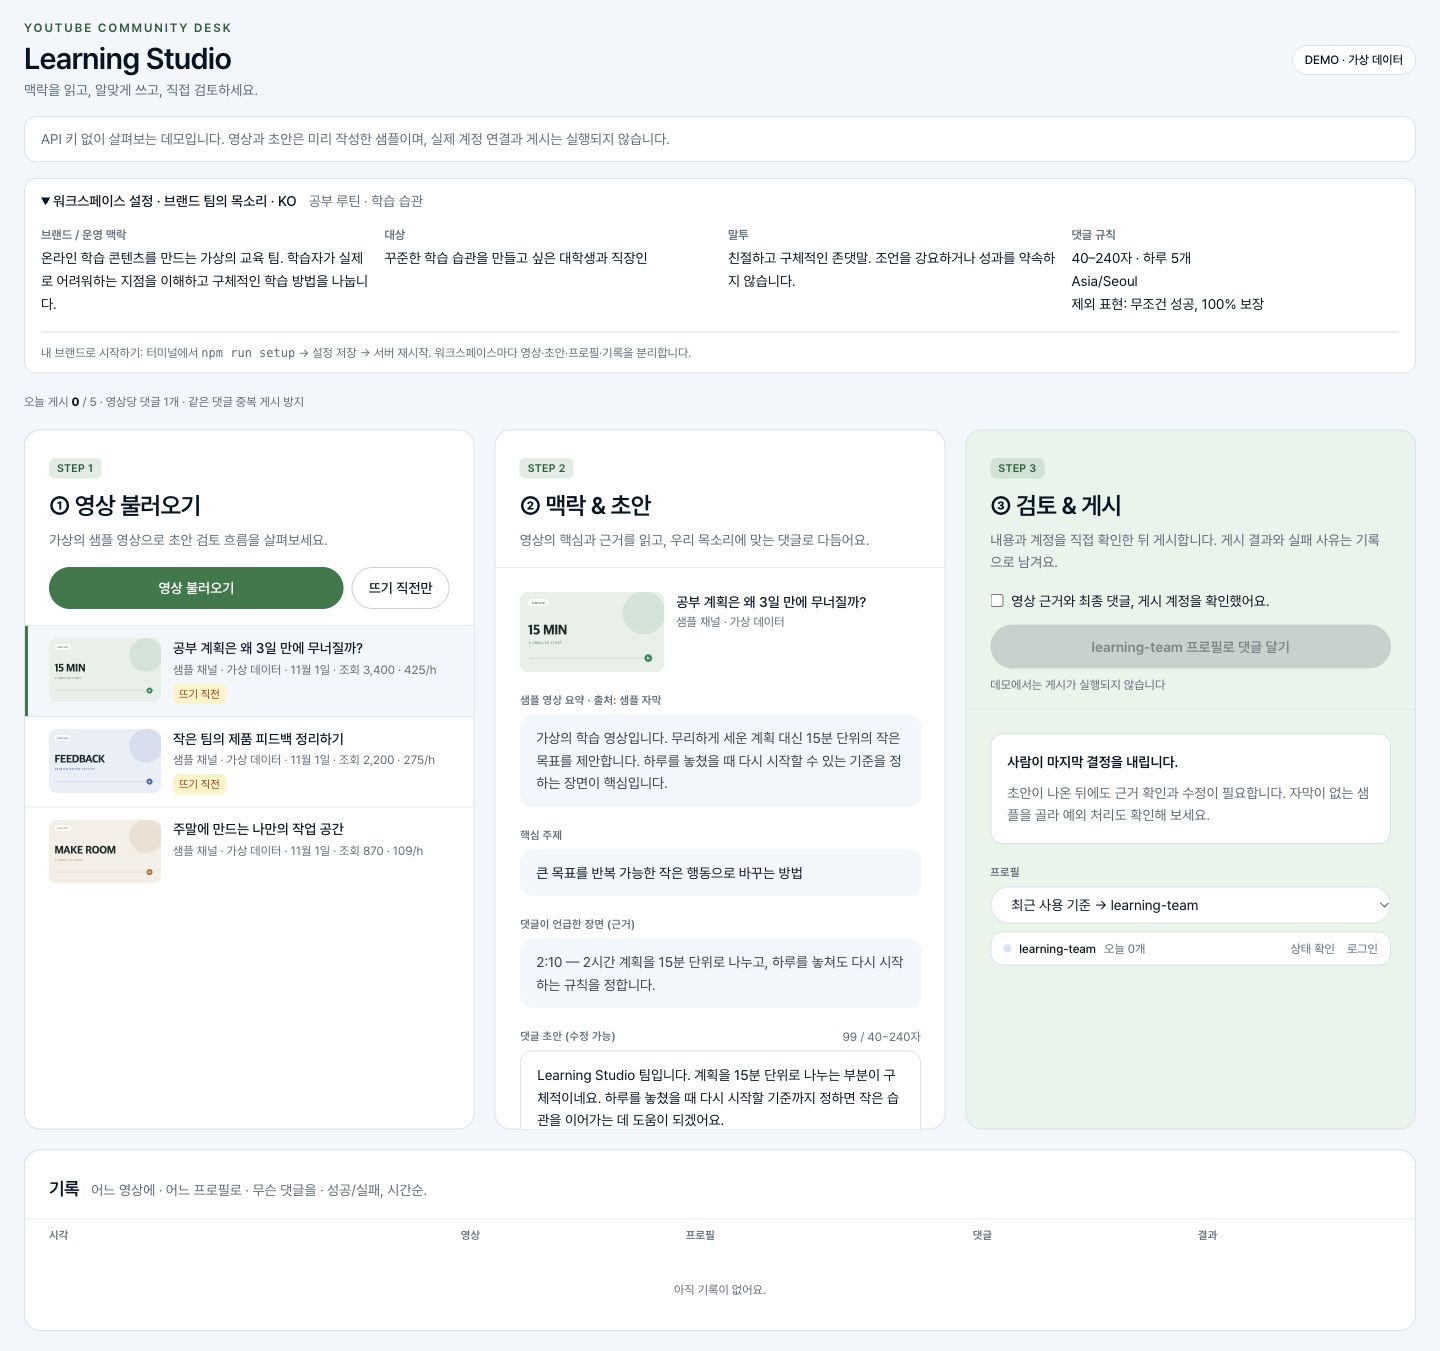
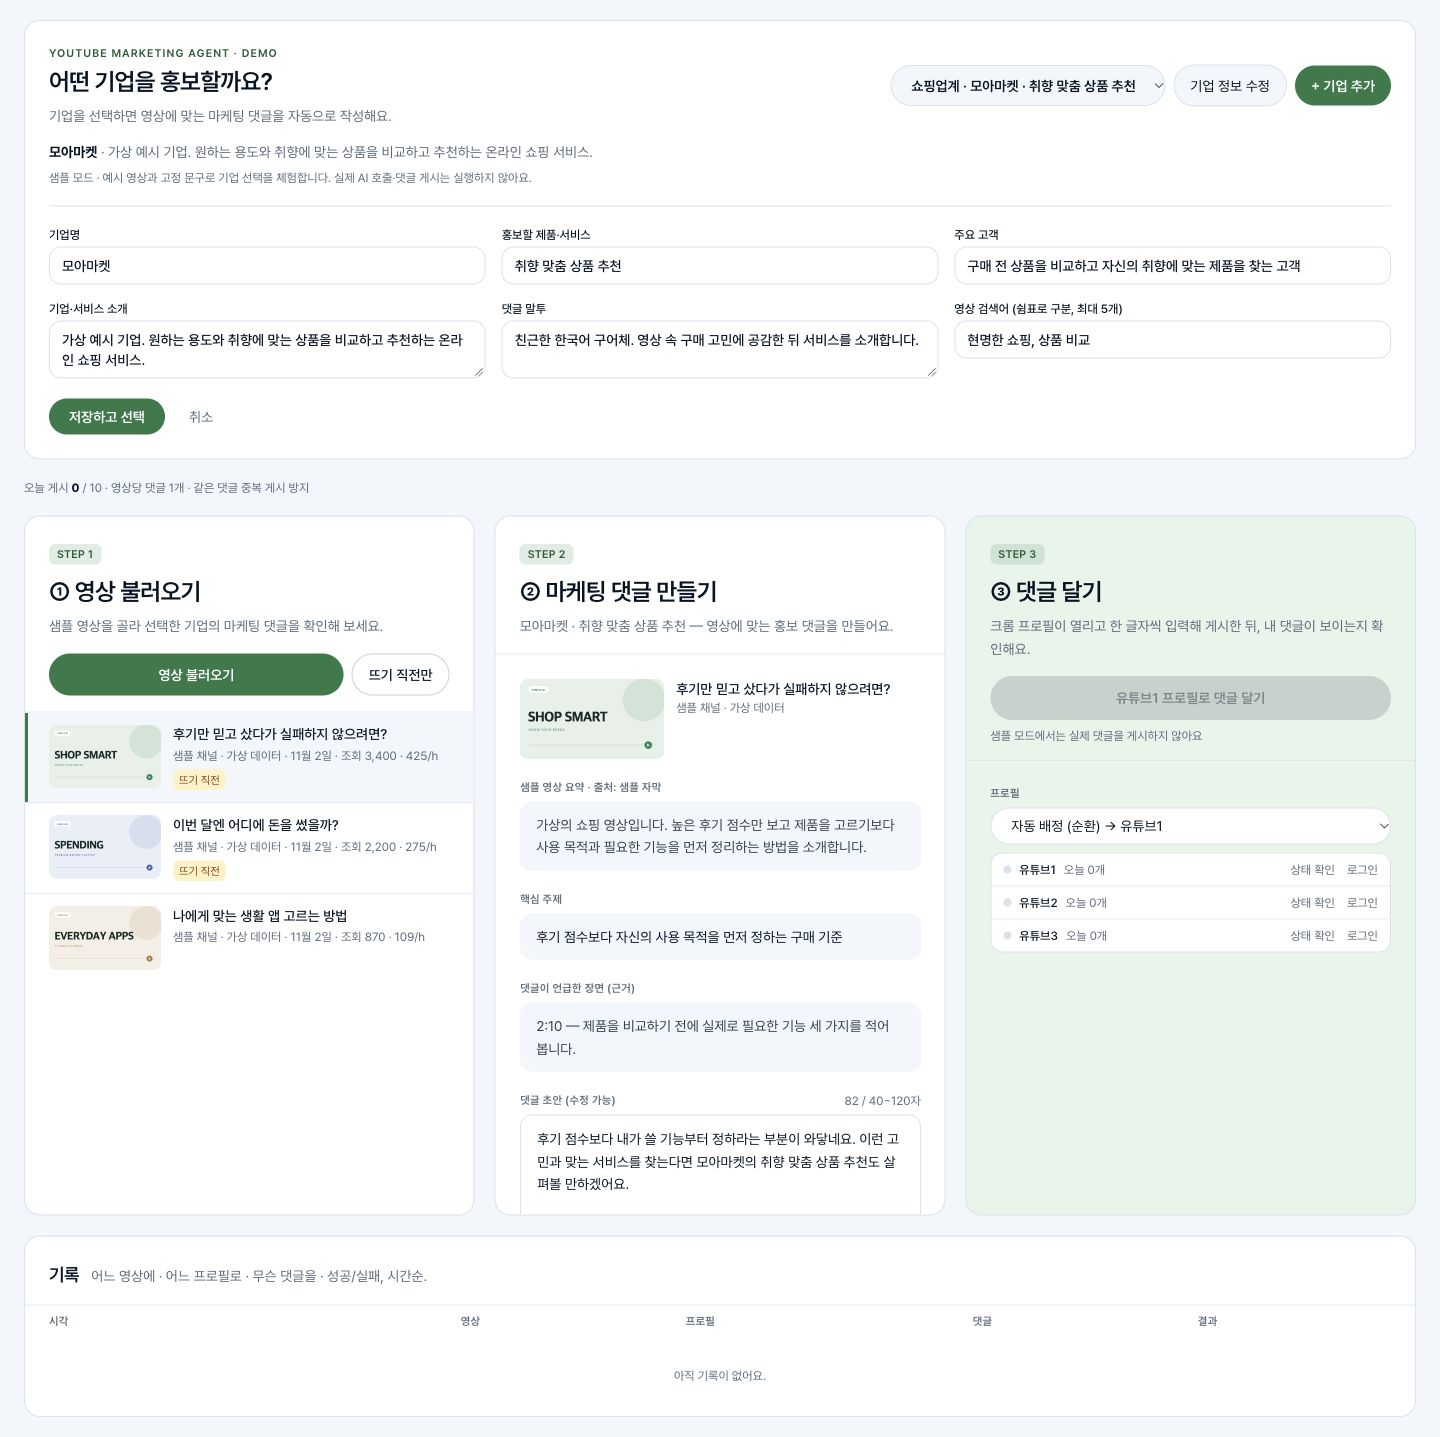
Correct marketing agent scope and showcase industry examples

diff --git a/index.html b/index.html
@@ -197,21 +197,20 @@ I connect business needs, service design, and implementation—and keep improvin
         <div class="plist__idx">06</div>
         <div class="plist__main">
           <div class="plist__org" hidden>개인 프로젝트 · 2026.11 · 범용화 공개 버전 · MIT</div>
-          <h3>YouTube Community Desk</h3>
-          <p class="plist__brief">브랜드별로 재사용하는 AI 댓글 도구. <mark>영상 근거 확인부터 사람의 최종 검토까지</mark> 연결합니다.</p>
+          <h3>YouTube Marketing Agent</h3>
+          <p class="plist__brief"><mark>홍보할 기업만 선택하면</mark> 영상 맥락에 맞는 마케팅 댓글을 생성·게시하는 에이전트입니다.</p>
           <div class="plist__more"><div class="plist__reveal-inner">
-            <p><b>사용자와 문제</b>작은 브랜드 팀과 커뮤니티 운영자가 관련 영상을 이해하고 적절한 댓글을 작성하는 도구입니다. 기존 프로젝트는 특정 브랜드·주제·말투가 코드에 고정되어 있어 다른 서비스에 적용하려면 코드를 수정해야 했습니다.</p>
-            <p><b>기획·구현</b>기존 영상 탐색·초안 생성·게시 흐름을 분석하고, <strong>공통 기능과 브랜드별 운영 조건을 분리</strong>했습니다. 서비스 설명·대상 사용자·말투·검색어·언어·댓글 규칙을 설정으로 옮기고, 처음 사용하는 사람을 위한 설정 도구와 교육·소프트웨어·커뮤니티 예시를 구성했습니다.</p>
-            <p><b>AI와 사람의 역할</b>영상의 요약·핵심 주제·댓글 근거를 초안 옆에 배치했습니다. <mark>AI는 초안을 만들고, 게시 여부는 사람이 결정</mark>합니다. 댓글·영상·게시 계정이 바뀌면 검토 상태를 초기화하며, 자막이 없으면 직접 확인이 필요하다고 표시합니다. 브랜드 계정은 댓글에서 소속을 밝히도록 했습니다.</p>
-            <p><b>재사용과 운영 설계</b>브랜드별 워크스페이스와 데모·실제 운영 데이터를 분리했습니다. 작성 조건이 바뀌면 이전 초안을 재사용하지 않도록 캐시를 초기화합니다. 중복 댓글 방지·한 번에 한 작업·시간대별 일일 상한을 서버에서 확인합니다.</p>
-            <p><b>공개 데모</b><strong>API 키 없이 영상 선택·초안 수정·예외 상황을 확인</strong>할 수 있습니다. 가상 데이터로 동작하며 실제 계정 연결과 게시 요청은 차단합니다.</p>
-            <p><b>검증 범위</b>설정·초안 규칙·검토 조건·중복 방지·데모 API 등 자동 테스트 14개, 타입 검사와 빌드를 통과했습니다. 실제 AI 응답·YouTube 게시는 이 범용화 버전에서 검증하지 않았으며, 이용률이나 시간 절감 수치는 측정 전입니다.</p>
+            <p><b>사용자와 문제</b>영상별 내용을 읽고 기업의 서비스를 소개하는 댓글을 작성하는 마케팅 업무를 돕습니다. 기존 에이전트는 기업명과 서비스가 코드에 고정되어 있어 <strong>다른 기업을 홍보할 때마다 코드를 수정</strong>해야 했습니다.</p>
+            <p><b>기획·구현</b><mark>기존 마케팅 흐름을 유지하며 홍보 대상만 선택</mark>하도록 확장했습니다. 기업명·제품/서비스·소개·고객·말투·검색어를 화면에서 저장하고 선택하면, 해당 기업 정보로 댓글 작성 조건이 바뀝니다.</p>
+            <p><b>AI 활용</b>영상 자막·설명·인기 댓글에서 요약과 핵심 장면을 추출하고, <strong>영상 속 고민과 선택한 기업의 서비스를 연결</strong>하는 홍보 댓글을 생성합니다. 초안은 수정할 수 있으며, 기존 Chrome 프로필 선택과 게시 흐름으로 이어집니다.</p>
+            <p><b>재사용 설계</b>같은 영상이라도 기업별로 초안을 구분합니다. 기업 정보를 수정하면 이전 초안을 재사용하지 않고, 기업을 바꾸면 현재 영상의 댓글도 바뀝니다. 영상당 1개·동일 댓글 중복 방지·일일 게시 상한 등 기존 운영 규칙을 유지했습니다.</p>
+            <p><b>확인 범위</b>기업 저장·선택·수정, 기업별 초안 분리와 기존 게시 규칙을 자동 테스트와 화면에서 확인했습니다. 공개 데모는 가상 영상과 고정 문구를 사용합니다. 이번 확장 버전의 실제 AI 응답·YouTube 게시와 마케팅 성과는 검증 전입니다.</p>
           </div></div>
         </div>
         <div class="plist__aside">
-          <div class="tags"><span class="tag tag--fill">AI Workflow</span><span class="tag">Human Review</span><span class="tag">TypeScript</span></div>
+          <div class="tags"><span class="tag tag--fill">AI Marketing</span><span class="tag">Automation</span><span class="tag">TypeScript</span></div>
           <p class="plist__note">직접 실행한 공개 버전 화면 · 가상 영상·초안으로 구성한 데모</p>
-          <div class="plist__preview"><div class="plist__reveal-inner"><div class="fig" data-i="0" data-n="3"><div class="fig__stage" role="button" tabindex="0" aria-label="이미지 크게 보기"><img src="assets/proj/highlights/community-01.jpg" alt="영상 탐색 → 맥락·초안 → 검토·게시 · 가상 데이터" loading="eager" class="on"><img src="assets/proj/highlights/community-02.jpg" alt="워크스페이스별 운영 맥락·대상·말투·댓글 규칙" loading="lazy"><img src="assets/proj/highlights/community-03.jpg" alt="자막이 없는 영상은 근거 확인이 필요하다고 표시" loading="lazy"></div></div></div></div>
+          <div class="plist__preview"><div class="plist__reveal-inner"><div class="fig" data-i="0" data-n="3"><div class="fig__stage" role="button" tabindex="0" aria-label="이미지 크게 보기"><img src="assets/proj/highlights/community-01.jpg" alt="쇼핑업계 선택 → 영상별 마케팅 댓글 → 프로필 게시 · 샘플 화면" loading="eager" class="on"><img src="assets/proj/highlights/community-02.jpg" alt="홍보할 기업·서비스·고객·말투·검색어 저장" loading="lazy"><img src="assets/proj/highlights/community-03.jpg" alt="핀테크업계 선택 · 가계부·예산 관리 앱 홍보 댓글" loading="lazy"></div></div></div></div>
         </div>
       </li>
 

diff --git a/README.md b/README.md
@@ -7,7 +7,7 @@
 
 ## 살펴보기
 
-- [AI와 데이터 프로젝트](https://dpwld.github.io/#projects): Company Finance, Grant Project, CRM Automation, Personal Workspace, Sprint Dashboard, YouTube Community Desk와 KAERI·시계열·감성분석 연구
+- [AI와 데이터 프로젝트](https://dpwld.github.io/#projects): Company Finance, Grant Project, CRM Automation, Personal Workspace, Sprint Dashboard, YouTube Marketing Agent와 KAERI·시계열·감성분석 연구
 - [기획과 디자인](https://dpwld.github.io/#works): 서비스 기획과 사용자 경험 설계
 - [기술과 자격](https://dpwld.github.io/#skills)
 - [경력](https://dpwld.github.io/#cv)
